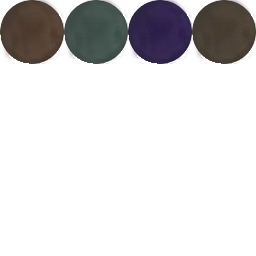
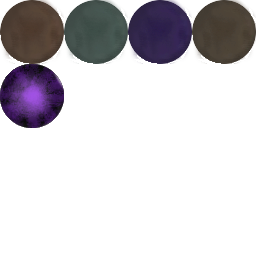
Tunnels transfer population. Selection overlay fix

Changed region(s): [[0.0, 0.25, 0.25, 0.5]]

diff --git a/js/entity.js b/js/entity.js
@@ -61,6 +61,10 @@ function Entity(x, y, width, height, type, sprite, args) {
 }
 
 Entity.prototype = {
+    mouseOver : function() {
+        var mouse = input.getMouse();
+        return engine.containsPoint(this, mouse.x, mouse.y);
+    },
     update : function() {},
     getId : function() {
         return this.id;
@@ -198,6 +202,9 @@ Planet.prototype = Object.create(Block.prototype);
 Planet.prototype.getPopulation = function() {
     return this.population;
 };
+Planet.prototype.resetPopulation = function() {
+    this.population = 0;
+};
 Planet.prototype.decPopulation = function() {
     if (this.population == 0) return false;
     this.population--;
@@ -222,12 +229,13 @@ Planet.prototype.render = function(context) {
     var offset = Math.floor(this.counter / 10);
     if (this.corrupted()) {
         context.globalAlpha = this.getCorruptionRate();
-        context.drawImage(res.get('planetNoise'), PLANET_SIZE * offset, 0, PLANET_SIZE, PLANET_SIZE, 0, 0, PLANET_SIZE, PLANET_SIZE);
+        context.drawImage(res.get('planetOverlay'), PLANET_SIZE * offset, 0, PLANET_SIZE, PLANET_SIZE, 0, 0, PLANET_SIZE, PLANET_SIZE);
         context.globalAlpha = '1';
     }
     if (this.selected) {
-        context.fillStyle = 'rgba(1, 1, 1, 0.5)';
-        context.fillRect(0, 0, PLANET_SIZE, PLANET_SIZE);
+        context.drawImage(res.get('planetOverlay'), PLANET_SIZE, PLANET_SIZE, PLANET_SIZE, PLANET_SIZE, 0, 0, PLANET_SIZE, PLANET_SIZE);
+    } else if (this.mouseOver()) {
+        context.drawImage(res.get('planetOverlay'), 0, PLANET_SIZE, PLANET_SIZE, PLANET_SIZE, 0, 0, PLANET_SIZE, PLANET_SIZE);
     }
     //render population
     context.fillStyle = '#888888';
@@ -257,15 +265,28 @@ function Tunnel(x, y, args) {
 }
 Tunnel.prototype = Object.create(Entity.prototype);
 Tunnel.prototype.render = function(context) {
-    context.strokeStyle = '#FFF';
+    var gradient = context.createLinearGradient(this.fromCenter.x, this.fromCenter.y, this.toCenter.x, this.toCenter.y);
+    gradient.addColorStop(0, '#222');
+    gradient.addColorStop(0.2, '#222');
+    gradient.addColorStop(0.8, "#AFA");
+    gradient.addColorStop(1, "#AFA");
     context.beginPath();
-    context.moveTo(this.fromCenter.x, this.fromCenter.y );
+    context.lineWidth = 4;
+    context.strokeStyle = 'rgba(256,256,256,0.2)';
+    context.moveTo(this.fromCenter.x, this.fromCenter.y);
+    context.lineTo(this.toCenter.x, this.toCenter.y);
+    context.closePath();
+    context.stroke();
+    context.beginPath();
+    context.lineWidth = 2;
+    context.strokeStyle = gradient;
+    context.moveTo(this.fromCenter.x, this.fromCenter.y);
     context.lineTo(this.toCenter.x, this.toCenter.y);
     context.closePath();
     context.stroke();
 };
 Tunnel.prototype.update = function() {
-    this.counter = ++this.counter % 30;
+    this.counter = ++this.counter % 1;
     if (this.counter == 0 && this.from.decPopulation()) this.to.incPopulation();
 };
 

diff --git a/js/game.js b/js/game.js
@@ -11,6 +11,14 @@ var counter = 0;
 
 var VOID = null;
 
+var populationLost = 0;
+var populationSaved = 0;
+var totalPopulation = 0;
+
+window.getPopulationInfo = function() {
+    return { total : totalPopulation, lost : populationLost, saved : populationSaved };
+};
+
 window.getVoid = function() {
     return VOID;
 };
@@ -33,6 +41,9 @@ function init() {
 function startLevel() {
     initStars();
     objects = [];
+    populationLost = 0;
+    totalPopulation = 0;
+    populationSaved = 0;
     VOID = generateVoid(0);
     objects.push(generatePlanet(50, 100));
     objects.push(generatePlanet(200, 10));
@@ -45,7 +56,9 @@ function generateVoid(pos) {
 }
 
 function generatePlanet(x, y) {
-    return spawn(TYPE.PLANET, x, y, { style : randomInt(4), population : 5 + randomInt(10)});
+    var pop = 150 + randomInt(20) * 10;
+    totalPopulation += pop;
+    return spawn(TYPE.PLANET, x, y, { style : randomInt(4), population : pop});
 }
 
 function tick() {
@@ -167,6 +180,8 @@ function updateEntity(entity) {
     entity.update();
     if (entity.type == TYPE.PLANET) {
         if (entity.destroyed()) {
+            populationLost += entity.getPopulation();
+            entity.resetPopulation();
             if (selected == entity) {
                 entity.selected = false;
                 selected = null;

diff --git a/js/render.js b/js/render.js
@@ -64,6 +64,7 @@ function render(_objects, _particles) {
         var from = getSelected().getCenter();
         var to = input.getMouse();
         bufferContext.strokeStyle = '#AAA';
+        bufferContext.lineWidth = 1;
         bufferContext.beginPath();
         bufferContext.moveTo(from.x, from. y);
         bufferContext.lineTo(to.x, to.y);
@@ -118,7 +119,20 @@ function getRandomStarColor() {
 }
 
 function renderUI() {
+    return;
+    bufferContext.textAlign = "center";
+    bufferContext.font = '12px Aoyagi bold';
 
+    bufferContext.fillStyle = '#333333';
+    bufferContext.fillRect(19, 19, 102, 17);
+    //bufferContext.fillStyle = '#99EE99';
+    //bufferContext.fillText('Population:', WIDTH / 10 + 1, HEIGHT / 17 - 1);
+    var population = getPopulationInfo();
+    bufferContext.fillStyle = '#555588';
+    bufferContext.fillRect(20, 20, 100, 15);
+    bufferContext.fillStyle = '#441111';
+    bufferContext.fillRect(20, 20, 100 * (population.lost / population.total), 15);
+    //bufferContext.fillText(String((population.total - population.lost) + '/' + population.total), WIDTH / 4 + 1, HEIGHT / 17 - 1);
 }
 
 function renderDebug() {

diff --git a/js/loader.js b/js/loader.js
@@ -9,7 +9,7 @@
         initScreen(document.getElementById('buffer'), WIDTH, HEIGHT);
         input.init();
         res.onReady(loaded);
-        res.load(['planet', 'noise', 'planetNoise', 'pallete']);
+        res.load(['planet', 'noise', 'planetOverlay', 'pallete']);
     }
 
     function initScreen(canvas, width, height) {
